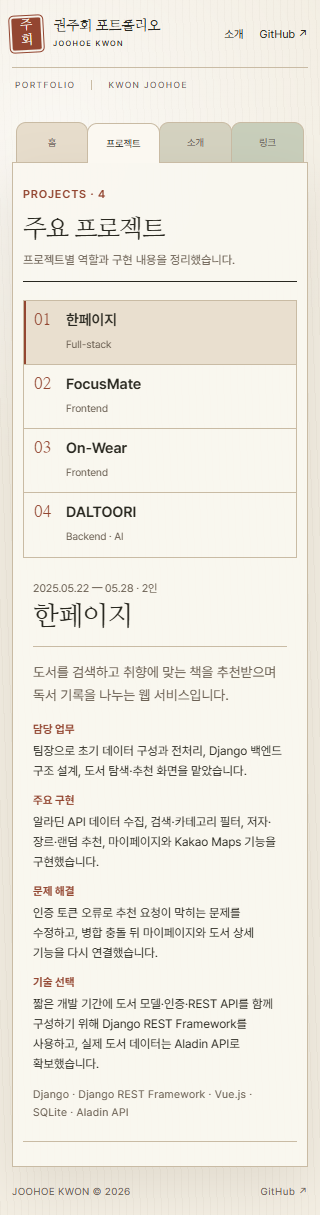
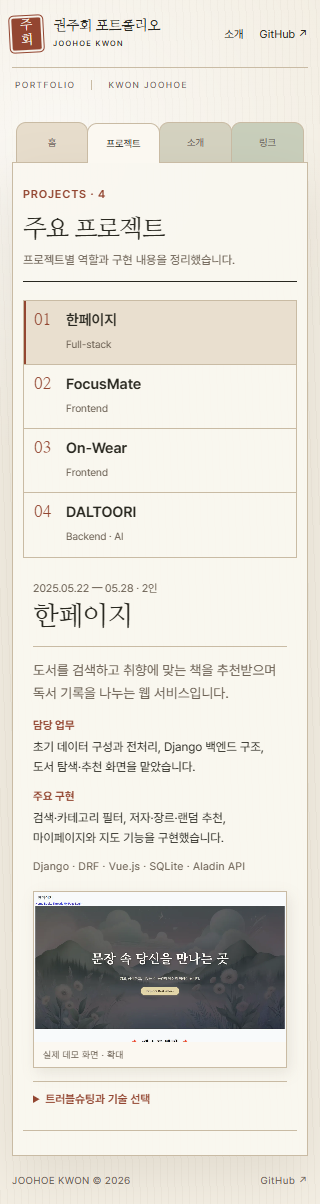
docs(t01): 프로젝트 화면 검증 기록 갱신

diff --git a/design.md b/design.md
@@ -1,9 +1,9 @@
 # introme 디자인 기준
 
-상태: 2026-09-14 참고 이미지 기반 전환형 아카이브 리디자인 구현·로컬 검증 완료. 사용자 지정 동양풍·감성적인 분위기·적절한 애니메이션·폴라로이드 프레임에 실제로 내용이 바뀌는 종이 파일 탭과 프로젝트 선택 탭을 더했다. 검증 결과는 docs/T01-tabbed-validation.json에 기록한다.
+상태: 2026-09-15 전환형 아카이브 리디자인과 실제 프로젝트 화면 수록을 구현·로컬 검증했다. 동양풍 편집 디자인, 종이 파일 탭, 절제된 움직임을 유지하고 프로젝트별 실행 화면과 별도 트러블슈팅 기록을 더했다. 검증 결과는 docs/T01-tabbed-validation.json에 기록한다.
 
 ## 목적과 방향
-동료와 협업 상대에게 권주회의 관심과 일하는 방식, 경험의 근거를 소개한다. 컨셉은 **가을의 서재, 경험의 갈피**. 따뜻한 종이 위에 한글 명조체, 인장 같은 작은 이름표, 세로쓰기 한 문장, 한옥의 계절 풍경을 배치한다. 경험 기록은 장식보다 먼저 읽혀야 한다.
+채용 담당자와 협업 상대에게 권주회의 관심과 일하는 방식, 구현 경험의 근거를 소개한다. 컨셉은 **한 권의 작업 기록**이다. 따뜻한 종이 위에 한글 명조체, 인장 같은 작은 이름표, 세로쓰기, 한옥 풍경을 배치한다. 계절은 소개 문구나 사용 시기를 규정하지 않고 사진의 분위기로만 남긴다. 경험 기록은 장식보다 먼저 읽혀야 한다.
 
 ## 사용자 지시와 참고 자료의 구분
 - 사용자가 직접 선택: 동양풍, 가을, 감성적 분위기, 폴라로이드, 적절한 움직임. 기존 임시 초록·고딕 방향보다 우선한다.
@@ -36,6 +36,8 @@
 - 최상위 `홈·프로젝트·소개·링크`는 ARIA 탭으로 구성하며 한 번에 한 패널만 보여 준다. URL 해시로 각 패널을 바로 열 수 있다.
 - 소개 패널은 좌측 자기소개와 우측 두 폴라로이드를 유지한다. 1366×768 및 1920×1080에서는 전체 포트폴리오가 한 화면 안에서 기록철처럼 보인다.
 - 프로젝트 패널은 날짜 순서인 `한페이지·FocusMate·On-Wear·달투리`로 고정하고, 선택한 프로젝트의 기간·역할·서비스·담당 업무·주요 구현·기술을 같은 형식으로 교체한다.
+- 각 프로젝트에는 로컬에서 실행한 기존 프론트엔드 데모의 대표 화면을 한 장씩 수록한다. 썸네일을 누르면 원본 비율의 큰 화면을 dialog에서 확인할 수 있다.
+- 기술 선택과 트러블슈팅은 본문과 분리한 접이식 기록으로 둔다. README·소스·커밋에서 근거가 확인된 내용만 쓰고 사례가 없는 항목을 채우기 위해 만들지 않는다.
 - 프로젝트 명칭은 사용자가 확인한 이름을 따른다. `BookVerse` 표기를 `한페이지`로 고치고, 외부 독자가 알기 어려운 SSAFY 단계명은 쓰지 않는다.
 - 한페이지는 유효한 공개 경로가 확인되기 전까지 링크를 표시하지 않는다. 나머지는 커밋 필터 주소 대신 실제 코드 저장소의 기본 경로로 연결한다.
 - 내부 검증 문구인 `확인된 역할`, `커밋에서 확인`을 사용자 화면에 노출하지 않는다. 화면에서는 `담당 업무`, `주요 구현`으로 쓴다.
@@ -54,6 +56,7 @@
 - OS의 prefers-reduced-motion이면 자동 움직임과 전환, smooth scroll을 해제한다. OS 설정이 켜진 동안 화면 버튼은 '움직임 줄이기 적용 중'으로 표시한다.
 - JavaScript가 없으면 사진은 정지하고 네 최상위 패널과 네 프로젝트 패널을 모두 읽을 수 있다.
 - native button을 사용하고 초점 테두리·hover·active를 구분한다.
+- 프로젝트 화면 확대는 native dialog를 사용하며 닫기 버튼과 바깥 영역 클릭, Escape를 지원한다.
 
 ## 프로젝트 사실 기준
 - On-Wear: 조직 README의 FE 역할과 `On-Wear-FE` develop 브랜치의 rnjswnghl 커밋을 사용한다.

diff --git a/docs/T01-log.md b/docs/T01-log.md
@@ -81,3 +81,9 @@
 - 네 프로젝트를 날짜 순서로 재배치하고 기간, 역할, 서비스 설명, 담당 업무, 주요 구현, 기술 스택 형식을 통일했다.
 - `확인된 역할`, `커밋에서 확인`, SSAFY 단계명처럼 제작자 관점의 문구를 사용자 화면에서 삭제했다.
 - 한페이지 링크는 제거했다. FocusMate, On-Wear, 달투리는 로컬 clone의 origin과 일치하는 실제 저장소 기본 경로로 수정했다.
+
+## 2026-09-15 · 프로젝트 실행 화면 추가
+- `rnjswnghl.github.io`의 보관된 빌드를 로컬에서 실행해 네 프로젝트의 실제 프론트엔드 대표 화면을 캡처하고 WebP로 최적화했다.
+- 프로젝트 본문에서 기술 선택과 트러블슈팅을 분리해 접이식 기록으로 옮겼다. 기존 조사로 확인된 사례만 유지했다.
+- 이미지 확대 dialog와 반응형 프로젝트 화면 구성을 추가했다.
+- 네 기준 해상도에서 이미지 로딩, 프로젝트 전환, 확대·닫기, 상세 기록 열기, 가로 넘침, 콘솔과 네트워크 오류를 자동 검사했다.
